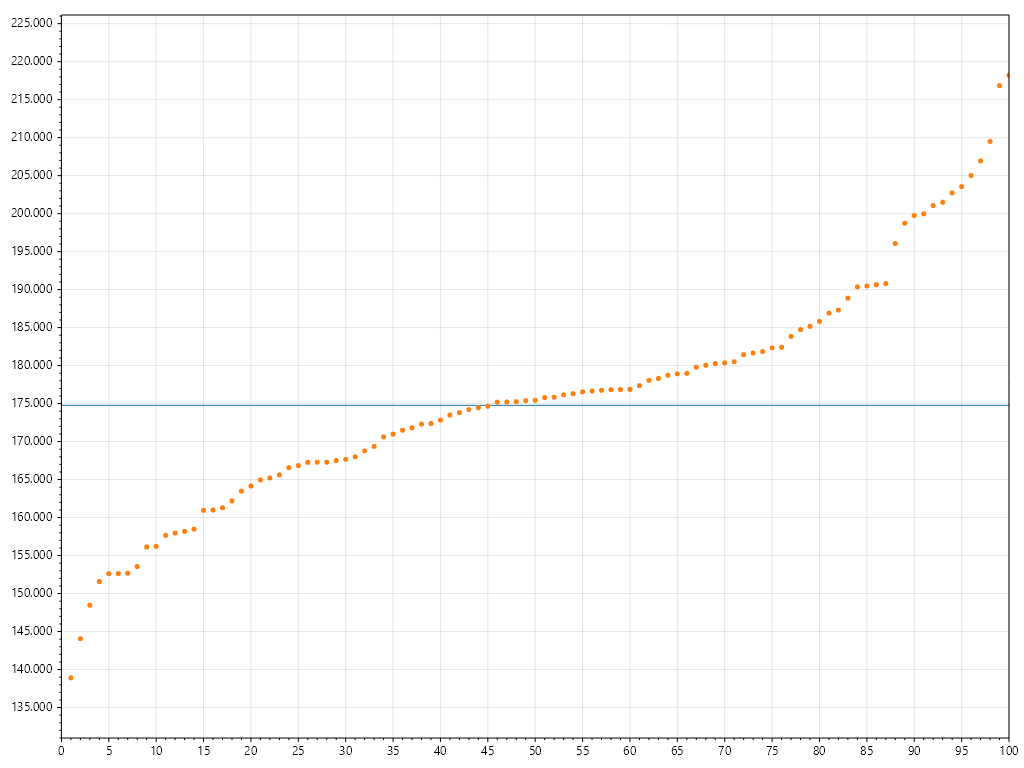
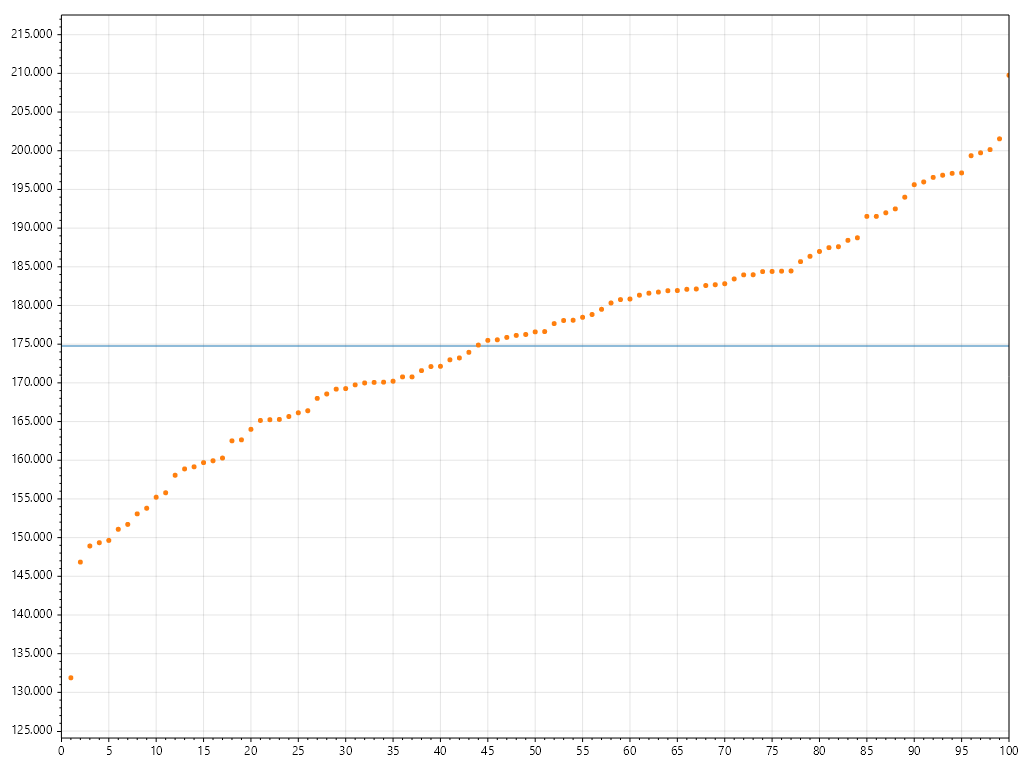
getting interesting

diff --git a/RadProject/CountSketch.cs b/RadProject/CountSketch.cs
@@ -1,37 +1,77 @@
 
+// namespace RadProject;
+// using System.Numerics;
+// public class CountSketch {
+//     readonly CountSketchHash g;
+//     public SortedList<ulong , int> C {
+//             get;
+//     }
+//     public CountSketch(CountSketchHash g, int l) {
+//         this.g = g;
+//         C = new SortedList<ulong , int>();
+//     }
+
+
+//     private SortedList<ulong , int> Init(IEnumerable<Tuple<ulong, int>> stream) {
+//         foreach (var tuple in stream) {
+//             ulong hHash = g.CSHash(tuple.Item1).Item1;
+//             int sHash = g.CSHash(tuple.Item1).Item2;
+//                 if (C.ContainsKey(hHash))
+//                 {
+//                     C[hHash] += sHash*tuple.Item2;
+//                 }
+//                 else {
+//                     C.Add(hHash, sHash*tuple.Item2);
+//                 }  
+//         }
+//         return C;
+//     }
+
+//     public long EstimateX(IEnumerable<Tuple<ulong, int>> stream) {
+//         this.Init(stream);
+//         long sum = 0;
+//         foreach (var x in C) {
+//             sum += (long)x.Value * x.Value;
+//         }
+//         return sum;
+//     }
+// }
+
 namespace RadProject;
 using System.Numerics;
+
 public class CountSketch {
     readonly CountSketchHash g;
-    public SortedList<ulong , int> C {
-            get;
-    }
+    readonly int l;
+    readonly int arraySize;
+    public int[] C { get; }
+
     public CountSketch(CountSketchHash g, int l) {
         this.g = g;
-        C = new SortedList<ulong , int>();
+        this.l = l;
+        this.arraySize = 1 << l; // Array size is 2^l
+        C = new int[arraySize];
     }
 
-
-    private SortedList<ulong , int> Init(IEnumerable<Tuple<ulong, int>> stream) {
+    private void Init(IEnumerable<Tuple<ulong, int>> stream) {
         foreach (var tuple in stream) {
-            ulong hHash = g.CSHash(tuple.Item1).Item1;
-            int sHash = g.CSHash(tuple.Item1).Item2;
-                if (C.ContainsKey(hHash))
-                {
-                    C[hHash] += sHash*tuple.Item2;
-                }
-                else {
-                    C.Add(hHash, sHash*tuple.Item2);
-                }  
+            var hHashPair = g.CSHash(tuple.Item1);
+            ulong hHash = hHashPair.Item1;
+            int sHash = hHashPair.Item2;
+
+            // Use modulo to ensure the hash index fits within the array bounds
+            int index = (int)(hHash % (ulong)arraySize);
+            C[index] += sHash * tuple.Item2;
         }
-        return C;
     }
 
     public long EstimateX(IEnumerable<Tuple<ulong, int>> stream) {
+        Array.Clear(C, 0, C.Length); // Clear previous state if any
         this.Init(stream);
+
         long sum = 0;
-        foreach (var x in C) {
-            sum += (long)x.Value * x.Value;
+        foreach (var value in C) {
+            sum += (long)value * value;
         }
         return sum;
     }

diff --git a/RadProject/HashFunctions.cs b/RadProject/HashFunctions.cs
@@ -50,19 +50,22 @@ public class FourHashFunction{
 
     List<BigInteger> a_values = new List<BigInteger>();
 
+    BigInteger p;
+
     public FourHashFunction (BigInteger a0, BigInteger a1,BigInteger a2,BigInteger a3 ){
         a_values.Add(a0);
         a_values.Add(a1);
         a_values.Add(a2);
         a_values.Add(a3);
+        p = BigInteger.Pow(2, 89) - 1;   
     }
 
     public BigInteger Hash(ulong x)
     {
 
-        BigInteger p;
+        // BigInteger p;
 
-        p = BigInteger.Pow(2, 89) - 1;
+        // p = BigInteger.Pow(2, 89) - 1;
 
         BigInteger x_big = new BigInteger(x);
 
